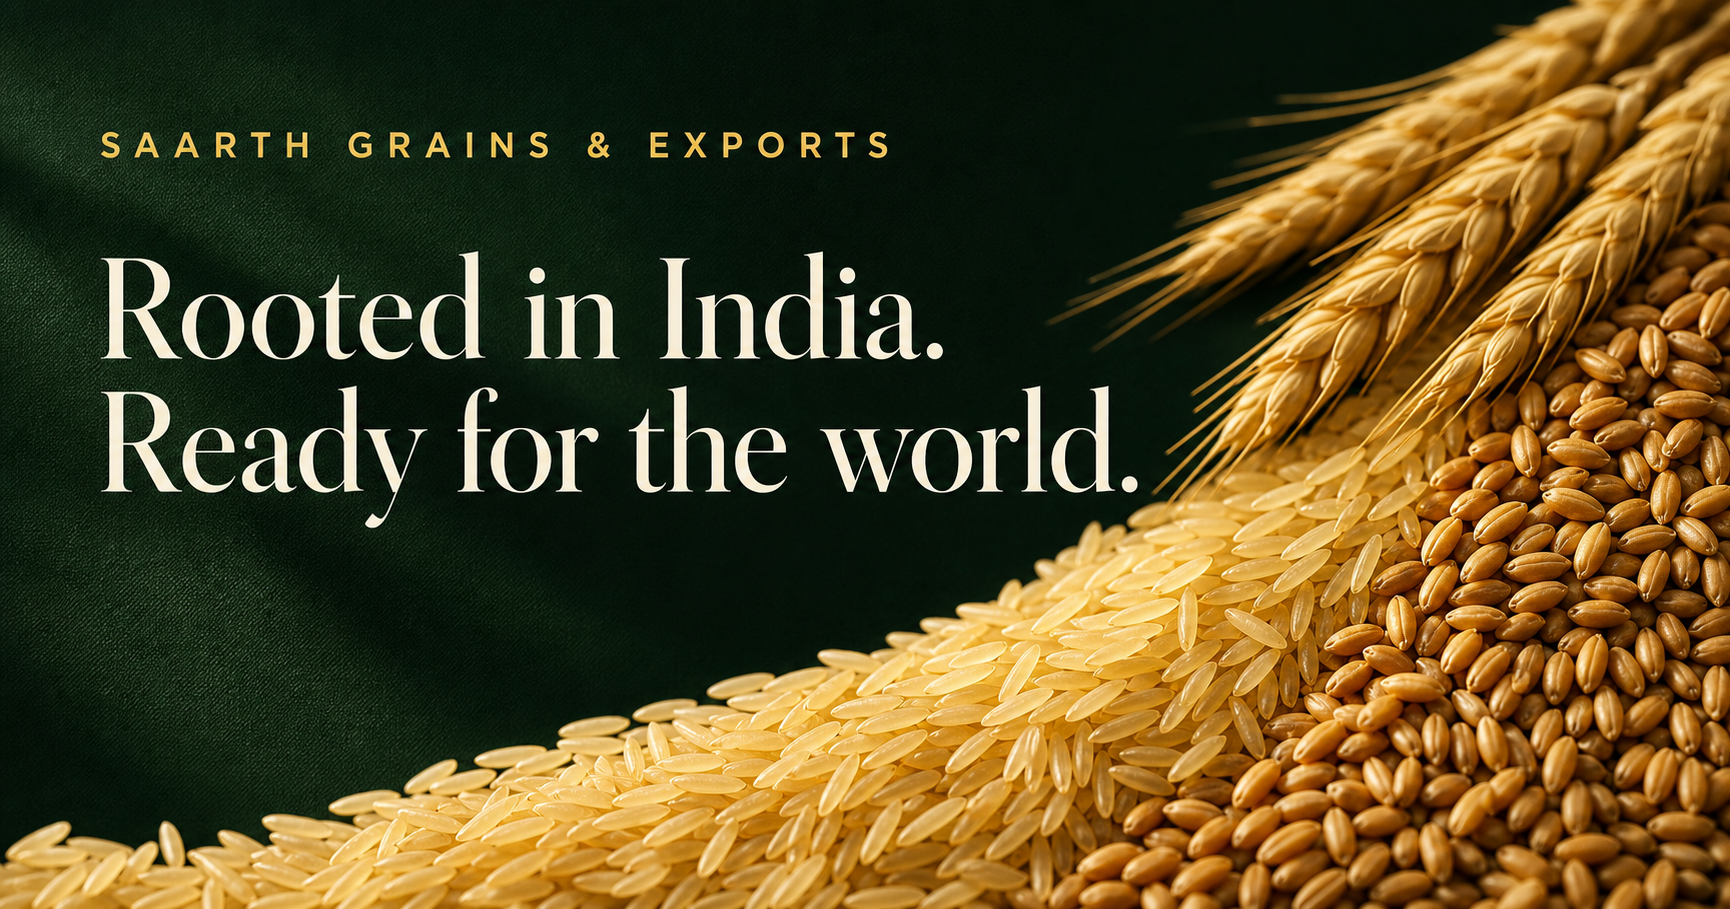
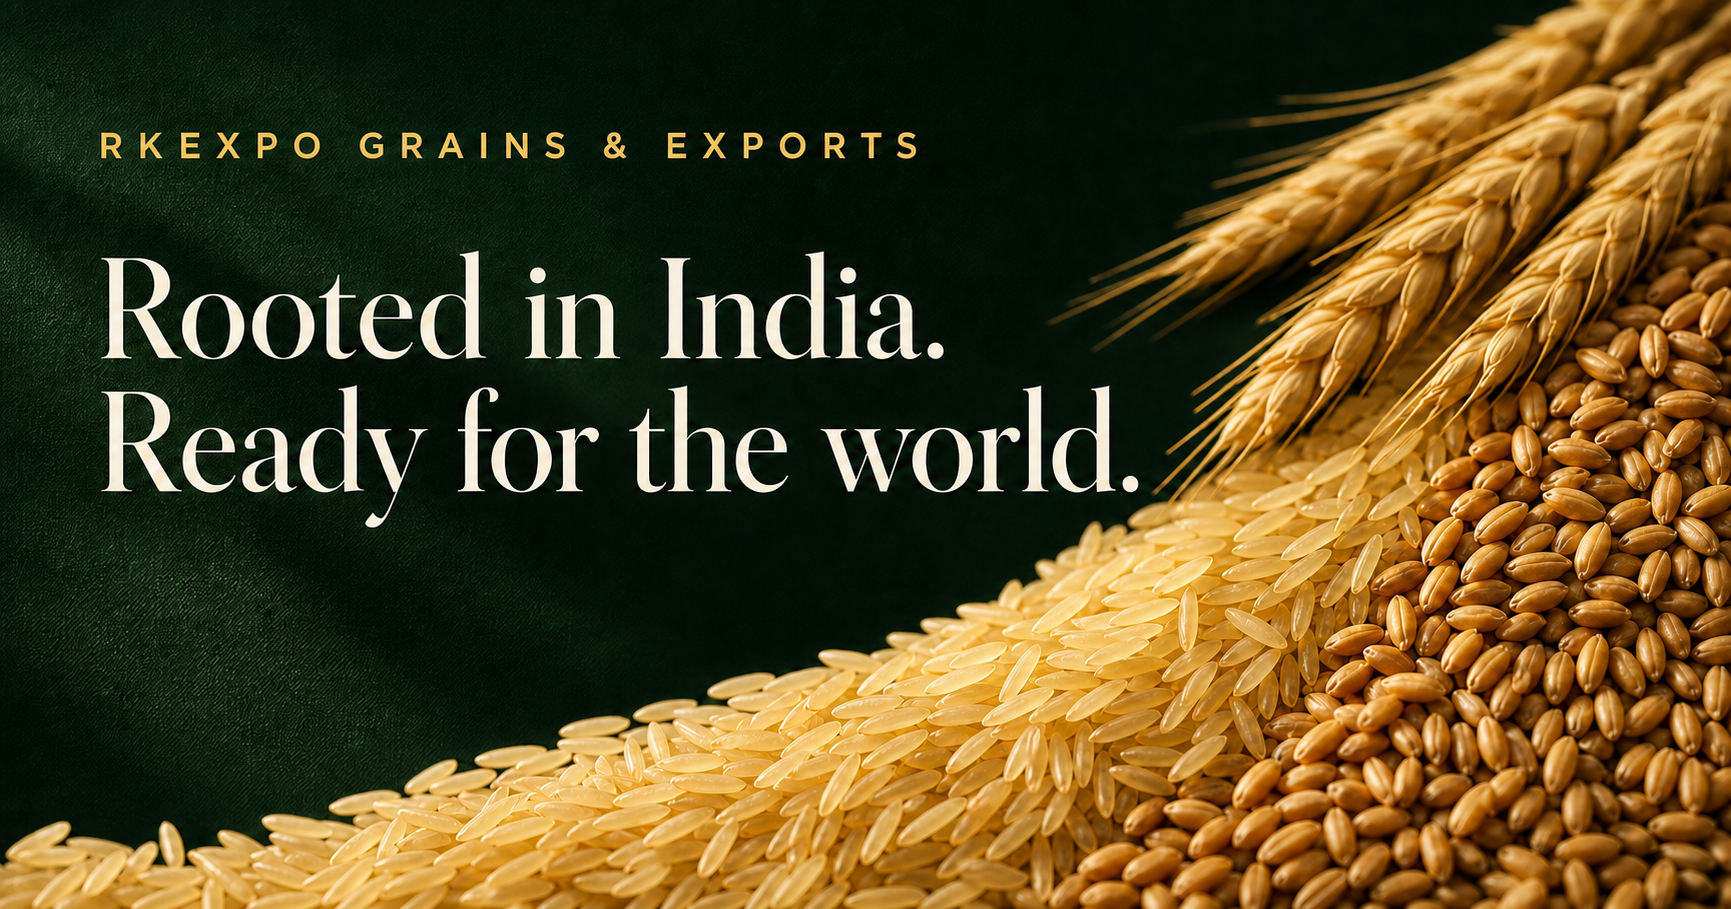
Rebrand site to RKExpo and redesign enquiry form

diff --git a/app/globals.css b/app/globals.css
@@ -204,25 +204,41 @@ em { font-weight: 400; color: var(--gold); }
 .quality-close { padding-top: 115px; padding-bottom: 120px; display: grid; grid-template-columns: 1fr .9fr auto; align-items: center; gap: 55px; }
 .quality-close h2 { font-family: var(--serif); font-size: 45px; font-weight: 400; margin: 0; }
 .quality-close p { color: #687269; font-size: 13px; line-height: 1.6; }
-.contact-grid { padding-top: 80px; padding-bottom: 120px; display: grid; grid-template-columns: .55fr 1.45fr; gap: 100px; }
-.contact-aside { display: flex; flex-direction: column; gap: 35px; }
-.contact-aside p { margin: 0; font-family: var(--serif); line-height: 1.5; }
-.contact-aside a { font-family: var(--serif); font-size: 18px; }
-.contact-label { color: #78827a; font-family: var(--sans) !important; font-size: 8px; text-transform: uppercase; letter-spacing: .16em; margin-bottom: 8px !important; }
-.response-card { margin-top: auto; padding: 30px; background: #e8dfce; display: grid; gap: 6px; }
-.response-card strong { font-family: var(--serif); font-size: 40px; font-weight: 400; }
-.response-card span { font-size: 8px; text-transform: uppercase; letter-spacing: .15em; }
-.quote-form { border-top: 1px solid var(--ink); padding-top: 30px; }
-.form-grid { display: grid; grid-template-columns: repeat(2, 1fr); column-gap: 30px; }
-.quote-form label { display: grid; gap: 9px; }
-.quote-form label > span { font-size: 8px; text-transform: uppercase; letter-spacing: .15em; color: #69736b; }
-.quote-form input, .quote-form select, .quote-form textarea { width: 100%; border: 0; border-bottom: 1px solid var(--line); background: transparent; color: var(--ink); padding: 12px 0 14px; outline: none; border-radius: 0; }
-.quote-form input:focus, .quote-form select:focus, .quote-form textarea:focus { border-color: var(--forest); }
-.quote-form input::placeholder, .quote-form textarea::placeholder { color: #9a9e99; }
-.message-field { margin-top: 26px; }
-.quote-form textarea { resize: vertical; }
-.form-action { margin-top: 35px; display: flex; align-items: center; justify-content: space-between; }
-.form-action p { color: #7a837c; font-size: 9px; }
+.contact-grid { padding-top: 80px; padding-bottom: 120px; display: grid; grid-template-columns: .78fr 1.22fr; gap: 28px; align-items: stretch; }
+.contact-aside { background: var(--deep); color: white; padding: 50px 46px 42px; display: flex; flex-direction: column; min-height: 760px; }
+.contact-aside-heading h2 { margin: 0 0 22px; font-family: var(--serif); font-size: 43px; font-weight: 400; line-height: 1.02; letter-spacing: -.025em; }
+.contact-aside-heading > p:last-child { margin: 0; max-width: 390px; color: #adbbb2; font-family: var(--serif); font-size: 16px; line-height: 1.6; }
+.contact-detail-list { margin-top: 55px; border-top: 1px solid rgba(255,255,255,.2); }
+.contact-detail-list > div { display: grid; grid-template-columns: 34px 1fr; padding: 21px 0; border-bottom: 1px solid rgba(255,255,255,.14); }
+.contact-detail-list > div > span { grid-row: 1 / 3; color: var(--gold); font-family: var(--serif); font-size: 15px; }
+.contact-detail-list p { margin: 0; color: #d5dfd8; font-family: var(--serif); font-size: 15px; line-height: 1.5; }
+.contact-detail-list a { color: white; font-family: var(--serif); font-size: 18px; }
+.contact-label { color: #849a8b !important; font-family: var(--sans) !important; font-size: 8px !important; text-transform: uppercase; letter-spacing: .16em; margin-bottom: 7px !important; }
+.response-card { margin-top: auto; padding-top: 28px; display: flex; align-items: end; justify-content: space-between; }
+.response-card strong { color: var(--gold); font-family: var(--serif); font-size: 44px; font-weight: 400; line-height: 1; }
+.response-card span { max-width: 110px; color: #94a79a; font-size: 8px; line-height: 1.5; text-align: right; text-transform: uppercase; letter-spacing: .15em; }
+.quote-form { background: #fffdf8; border: 1px solid var(--line); padding: 45px 46px 38px; }
+.form-heading { display: flex; align-items: start; justify-content: space-between; margin-bottom: 24px; }
+.form-heading > div { display: flex; align-items: start; gap: 18px; }
+.form-heading > div > span { width: 34px; height: 34px; display: grid; place-items: center; border-radius: 50%; background: var(--deep); color: white; font-family: var(--serif); font-size: 14px; }
+.form-heading p { margin: 0 0 4px; color: #748078; font-size: 8px; font-weight: 700; letter-spacing: .16em; text-transform: uppercase; }
+.form-heading h2 { margin: 0; font-family: var(--serif); font-size: 29px; font-weight: 400; line-height: 1; }
+.form-heading small { color: #899189; font-size: 8px; letter-spacing: .12em; text-transform: uppercase; }
+.form-heading-secondary { margin-top: 39px; padding-top: 34px; border-top: 1px solid var(--line); }
+.form-grid { display: grid; grid-template-columns: repeat(2, minmax(0, 1fr)); gap: 12px; }
+.buyer-grid .field-wide { grid-column: 1 / -1; }
+.quote-form label { min-width: 0; display: grid; gap: 7px; padding: 14px 17px 12px; border: 1px solid #ded7ca; background: var(--paper); transition: border-color .2s ease, box-shadow .2s ease, background .2s ease; }
+.quote-form label:focus-within { border-color: var(--forest); background: white; box-shadow: 0 0 0 3px rgba(25,59,43,.08); }
+.quote-form label > span { font-size: 8px; font-weight: 700; text-transform: uppercase; letter-spacing: .15em; color: #69736b; }
+.quote-form input, .quote-form select, .quote-form textarea { width: 100%; border: 0; background: transparent; color: var(--ink); padding: 5px 0 2px; outline: none; border-radius: 0; font-family: var(--serif); font-size: 17px; }
+.quote-form select { cursor: pointer; }
+.quote-form input::placeholder, .quote-form textarea::placeholder { color: #9a9e99; opacity: 1; }
+.message-field { margin-top: 12px; }
+.quote-form textarea { min-height: 112px; line-height: 1.45; resize: vertical; }
+.form-action { margin-top: 18px; padding-top: 20px; border-top: 1px solid var(--line); display: flex; align-items: center; justify-content: space-between; gap: 24px; }
+.form-action > div { display: flex; align-items: center; gap: 9px; max-width: 290px; }
+.form-action p { margin: 0; color: #7a837c; font-size: 9px; line-height: 1.45; }
+.form-status-dot { width: 7px; height: 7px; flex: 0 0 auto; border-radius: 50%; background: #65906f; box-shadow: 0 0 0 4px rgba(101,144,111,.13); }
 .before-enquiry { padding-top: 90px; padding-bottom: 115px; border-top: 1px solid var(--line); }
 .before-enquiry h2 { font-family: var(--serif); font-weight: 400; font-size: 40px; }
 .before-enquiry > div { display: grid; grid-template-columns: repeat(3, 1fr); border-top: 1px solid var(--ink); }
@@ -235,7 +251,9 @@ em { font-weight: 400; color: var(--gold); }
   .hero-content { grid-template-columns: 1.25fr .75fr; gap: 45px; }
   .trust-line > div { gap: 18px; }
   .page-hero { grid-template-columns: 45px 1.4fr .8fr; }
-  .quality-process, .contact-grid { gap: 55px; }
+  .quality-process { gap: 55px; }
+  .contact-aside { padding: 40px 32px; }
+  .quote-form { padding: 38px 32px; }
 }
 
 @media (max-width: 760px) {
@@ -316,11 +334,19 @@ em { font-weight: 400; color: var(--gold); }
   .documents-band > div { grid-template-columns: 1fr; gap: 35px; }
   .document-list { grid-template-columns: 1fr; }
   .quality-close { padding-top: 75px; padding-bottom: 85px; grid-template-columns: 1fr; gap: 25px; }
-  .contact-grid { padding-top: 55px; padding-bottom: 85px; grid-template-columns: 1fr; gap: 55px; }
-  .contact-aside { display: grid; grid-template-columns: repeat(2, 1fr); }
-  .response-card { grid-column: 1 / -1; }
-  .form-grid { grid-template-columns: 1fr; gap: 24px; }
-  .form-action { align-items: flex-start; flex-direction: column; gap: 16px; }
+  .contact-grid { padding-top: 55px; padding-bottom: 85px; grid-template-columns: 1fr; gap: 18px; }
+  .contact-aside { min-height: auto; padding: 38px 28px 32px; }
+  .contact-aside-heading h2 { font-size: 38px; }
+  .contact-detail-list { margin-top: 40px; }
+  .response-card { margin-top: 35px; }
+  .quote-form { padding: 32px 20px 24px; }
+  .form-heading { gap: 15px; }
+  .form-heading small { display: none; }
+  .form-heading h2 { font-size: 25px; }
+  .form-grid { grid-template-columns: 1fr; gap: 10px; }
+  .buyer-grid .field-wide { grid-column: auto; }
+  .form-action { align-items: stretch; flex-direction: column; gap: 18px; }
+  .form-action .button { width: 100%; }
   .before-enquiry { padding-top: 70px; padding-bottom: 85px; }
   .before-enquiry > div { grid-template-columns: 1fr; }
   .before-enquiry span { border-left: 0 !important; padding-left: 0 !important; }

diff --git a/app/components/QuoteForm.tsx b/app/components/QuoteForm.tsx
@@ -11,15 +11,19 @@ export function QuoteForm({ initialProduct = "" }: { initialProduct?: string }) 
     const form = new FormData(event.currentTarget);
     const subject = encodeURIComponent(`Export enquiry — ${String(form.get("product"))}`);
     const body = encodeURIComponent(
-      `Name: ${form.get("name")}\nCompany: ${form.get("company")}\nCountry: ${form.get("country")}\nProduct: ${form.get("product")}\nQuantity: ${form.get("quantity")}\n\nMessage:\n${form.get("message")}`,
+      `Name: ${form.get("name")}\nCompany: ${form.get("company")}\nCountry: ${form.get("country")}\nProduct: ${form.get("product")}\nQuantity: ${form.get("quantity")}\nDestination port: ${form.get("destination")}\nIncoterm: ${form.get("incoterm")}\n\nMessage:\n${form.get("message")}`,
     );
     setPrepared(true);
-    window.location.href = `mailto:exports@saarthgrains.com?subject=${subject}&body=${body}`;
+    window.location.href = `mailto:exports@rkexpo.com?subject=${subject}&body=${body}`;
   }
 
   return (
     <form className="quote-form" onSubmit={handleSubmit}>
-      <div className="form-grid">
+      <div className="form-heading">
+        <div><span>01</span><div><p>Buyer details</p><h2>Tell us who you are.</h2></div></div>
+        <small>* Required fields</small>
+      </div>
+      <div className="form-grid buyer-grid">
         <label>
           <span>Your name *</span>
           <input name="name" required placeholder="Full name" />
@@ -28,10 +32,15 @@ export function QuoteForm({ initialProduct = "" }: { initialProduct?: string }) 
           <span>Company *</span>
           <input name="company" required placeholder="Company name" />
         </label>
-        <label>
+        <label className="field-wide">
           <span>Country / market *</span>
           <input name="country" required placeholder="e.g. UAE" />
         </label>
+      </div>
+      <div className="form-heading form-heading-secondary">
+        <div><span>02</span><div><p>Shipment requirement</p><h2>What should we quote?</h2></div></div>
+      </div>
+      <div className="form-grid shipment-grid">
         <label>
           <span>Product *</span>
           <select name="product" required defaultValue={initialProduct}>
@@ -45,6 +54,10 @@ export function QuoteForm({ initialProduct = "" }: { initialProduct?: string }) 
           <input name="quantity" placeholder="e.g. 1 × 20 ft container" />
         </label>
         <label>
+          <span>Destination port</span>
+          <input name="destination" placeholder="e.g. Jebel Ali, Dubai" />
+        </label>
+        <label>
           <span>Preferred incoterm</span>
           <select name="incoterm" defaultValue="FOB">
             <option>FOB</option>
@@ -54,13 +67,13 @@ export function QuoteForm({ initialProduct = "" }: { initialProduct?: string }) 
           </select>
         </label>
       </div>
-      <label className="message-field">
+      <label className="message-field field-wide">
         <span>Tell us what you need</span>
         <textarea name="message" rows={5} placeholder="Grade, packaging, destination port, timelines…" />
       </label>
       <div className="form-action">
+        <div><span className="form-status-dot" /><p>{prepared ? "Your enquiry is ready in your email app." : "Your details stay private and are only used for this quotation."}</p></div>
         <button className="button button-dark" type="submit">Prepare email enquiry <span aria-hidden="true">↗</span></button>
-        <p>{prepared ? "Your enquiry is ready in your email app." : "We usually reply within one business day."}</p>
       </div>
     </form>
   );

diff --git a/app/contact/page.tsx b/app/contact/page.tsx
@@ -4,8 +4,8 @@ import { PageHero, SiteShell } from "../components/SiteShell";
 import { QuoteForm } from "../components/QuoteForm";
 
 export const metadata: Metadata = {
-  title: "Request an Export Quote | Saarth Grains",
-  description: "Send your product, packing, quantity, and destination requirements to Saarth's India export desk.",
+  title: "Request an Export Quote | RKExpo",
+  description: "Send your product, packing, quantity, and destination requirements to RKExpo's India export desk.",
 };
 
 export default async function ContactPage({ searchParams }: { searchParams: Promise<{ product?: string }> }) {
@@ -20,12 +20,19 @@ export default async function ContactPage({ searchParams }: { searchParams: Prom
         intro="Share what you are sourcing. The more detail you provide, the more useful our first response can be."
       />
       <section className="contact-grid page-shell">
-        <div className="contact-aside">
-          <div><p className="contact-label">Email</p><a href="mailto:exports@saarthgrains.com">exports@saarthgrains.com</a></div>
-          <div><p className="contact-label">Call / WhatsApp</p><a href="tel:+919876543210">+91 98765 43210</a></div>
-          <div><p className="contact-label">Export desk</p><p>Rajkot, Gujarat<br />India 360001</p></div>
+        <aside className="contact-aside">
+          <div className="contact-aside-heading">
+            <p className="eyebrow light">Direct trade desk</p>
+            <h2>Speak with a person,<br /><em>not a ticket.</em></h2>
+            <p>Our export team will review your product, packing, and destination details before replying.</p>
+          </div>
+          <div className="contact-detail-list">
+            <div><span>01</span><p className="contact-label">Email</p><a href="mailto:exports@rkexpo.com">exports@rkexpo.com</a></div>
+            <div><span>02</span><p className="contact-label">Call / WhatsApp</p><a href="tel:+919876543210">+91 98765 43210</a></div>
+            <div><span>03</span><p className="contact-label">Export desk</p><p>Rajkot, Gujarat · India 360001</p></div>
+          </div>
           <div className="response-card"><strong>&lt; 1 day</strong><span>Typical response time</span></div>
-        </div>
+        </aside>
         <QuoteForm initialProduct={initialProduct} />
       </section>
       <section className="before-enquiry page-shell">

diff --git a/app/components/SiteShell.tsx b/app/components/SiteShell.tsx
@@ -11,14 +11,14 @@ const navItems = [
 
 export function Brand() {
   return (
-    <Link href="/" className="brand" aria-label="Saarth Grains home">
+    <Link href="/" className="brand" aria-label="RKExpo home">
       <span className="brand-mark" aria-hidden="true">
         <i />
         <i />
         <i />
       </span>
       <span className="brand-type">
-        <strong>SAARTH</strong>
+        <strong>RKEXPO</strong>
         <small>GRAINS &amp; EXPORTS</small>
       </span>
     </Link>
@@ -65,7 +65,7 @@ export function Footer() {
       <div className="footer-lead page-shell">
         <p className="eyebrow light">Start a conversation</p>
         <h2>Let’s move good grain<br />across borders.</h2>
-        <Link href="/contact" className="round-arrow" aria-label="Contact Saarth Grains">
+        <Link href="/contact" className="round-arrow" aria-label="Contact RKExpo">
           ↗
         </Link>
       </div>
@@ -80,7 +80,7 @@ export function Footer() {
         </div>
         <div>
           <p className="footer-label">Contact</p>
-          <a href="mailto:exports@saarthgrains.com">exports@saarthgrains.com</a>
+          <a href="mailto:exports@rkexpo.com">exports@rkexpo.com</a>
           <a href="tel:+919876543210">+91 98765 43210</a>
           <span>Rajkot, Gujarat, India</span>
         </div>
@@ -91,7 +91,7 @@ export function Footer() {
         </div>
       </div>
       <div className="footer-bottom page-shell">
-        <span>© 2026 Saarth Grains &amp; Exports</span>
+        <span>© 2026 RKExpo</span>
         <span>Demo catalogue · Specifications subject to contract</span>
       </div>
     </footer>

diff --git a/app/layout.tsx b/app/layout.tsx
@@ -4,19 +4,19 @@ import "./globals.css";
 
 export async function generateMetadata(): Promise<Metadata> {
   const requestHeaders = await headers();
-  const host = requestHeaders.get("x-forwarded-host") ?? requestHeaders.get("host") ?? "saarthgrains.example";
+  const host = requestHeaders.get("x-forwarded-host") ?? requestHeaders.get("host") ?? "rkexpo.example";
   const protocol = requestHeaders.get("x-forwarded-proto") ?? (host.includes("localhost") ? "http" : "https");
   const baseUrl = `${protocol}://${host}`;
 
   return {
     metadataBase: new URL(baseUrl),
-    title: "Saarth Grains & Exports | Indian Grains for Global Markets",
+    title: "RKExpo | Indian Grains for Global Markets",
     description: "Premium rice, pulses, millets, and cereals sourced in India and prepared for international buyers.",
     openGraph: {
       title: "Rooted in India. Ready for the world.",
       description: "Export-ready rice, pulses, millets, and cereals from India.",
       type: "website",
-      images: [{ url: `${baseUrl}/og.png`, width: 1200, height: 630, alt: "Saarth Grains & Exports" }],
+      images: [{ url: `${baseUrl}/og.png`, width: 1200, height: 630, alt: "RKExpo — Grains & Exports" }],
     },
     twitter: {
       card: "summary_large_image",

diff --git a/app/about/page.tsx b/app/about/page.tsx
@@ -3,7 +3,7 @@ import Link from "next/link";
 import { PageHero, SiteShell } from "../components/SiteShell";
 
 export const metadata: Metadata = {
-  title: "Our Story | Saarth Grains",
+  title: "Our Story | RKExpo",
   description: "A practical, origin-led Indian grain export partner for international buyers.",
 };
 
@@ -14,7 +14,7 @@ export default function AboutPage() {
         number="03"
         kicker="Our story"
         title={<>Trade should feel<br /><em>closer to the source.</em></>}
-        intro="Saarth was shaped around a simple idea: international buyers deserve clearer origin, steadier communication, and fewer hand-offs."
+        intro="RKExpo was shaped around a simple idea: international buyers deserve clearer origin, steadier communication, and fewer hand-offs."
       />
       <section className="about-mosaic page-shell">
         <div className="about-photo about-photo-field" role="img" aria-label="Golden grain field" />

diff --git a/app/page.tsx b/app/page.tsx
@@ -59,7 +59,7 @@ export default function Home() {
       <section className="origin-story">
         <div className="origin-photo" role="img" aria-label="Rice growing in an Indian field" />
         <div className="origin-copy">
-          <p className="eyebrow light">Why Saarth</p>
+          <p className="eyebrow light">Why RKExpo</p>
           <h2>Closer to origin.<br /><em>Stronger at destination.</em></h2>
           <p>We work across India’s key growing belts, coordinating procurement, cleaning, testing, packing, and export documentation through one accountable trade desk.</p>
           <div className="stat-row">

diff --git a/app/quality/page.tsx b/app/quality/page.tsx
@@ -3,8 +3,8 @@ import Link from "next/link";
 import { PageHero, SiteShell } from "../components/SiteShell";
 
 export const metadata: Metadata = {
-  title: "Quality & Export Process | Saarth Grains",
-  description: "See how Saarth sources, tests, packs, documents, and ships Indian grains.",
+  title: "Quality & Export Process | RKExpo",
+  description: "See how RKExpo sources, tests, packs, documents, and ships Indian grains.",
 };
 
 export default function QualityPage() {

diff --git a/app/products/[slug]/page.tsx b/app/products/[slug]/page.tsx
@@ -11,7 +11,7 @@ export function generateStaticParams() {
 export async function generateMetadata({ params }: { params: Promise<{ slug: string }> }): Promise<Metadata> {
   const product = getProduct((await params).slug);
   return product
-    ? { title: `${product.name} Exporter | Saarth Grains`, description: product.description }
+    ? { title: `${product.name} Exporter | RKExpo`, description: product.description }
     : {};
 }
 

diff --git a/app/products/page.tsx b/app/products/page.tsx
@@ -3,7 +3,7 @@ import { ProductGrid } from "../components/ProductGrid";
 import { PageHero, SiteShell } from "../components/SiteShell";
 
 export const metadata: Metadata = {
-  title: "Export Grain Catalogue | Saarth Grains",
+  title: "Export Grain Catalogue | RKExpo",
   description: "Browse export-ready rice, pulses, millets, and cereals sourced from India.",
 };
 
